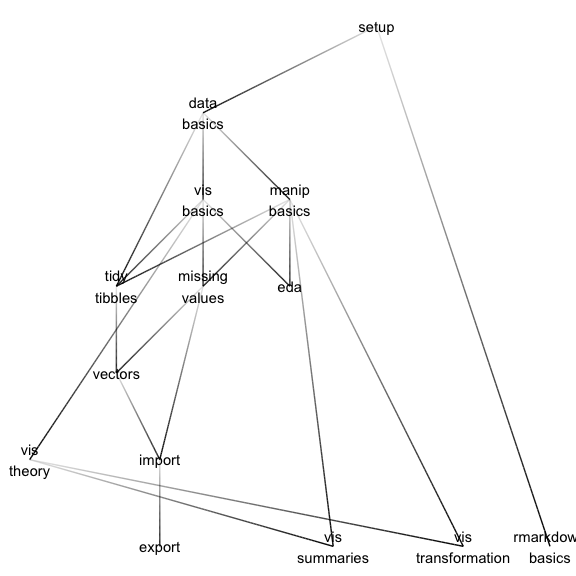
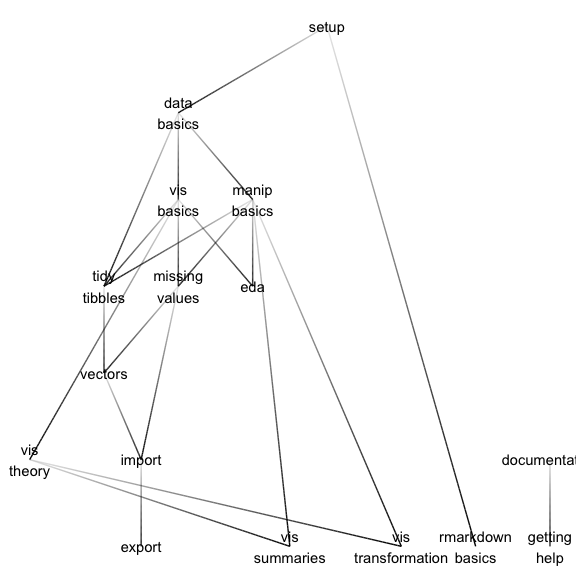
Rebuild site

diff --git a/docs/documentation.md b/docs/documentation.md
@@ -1,0 +1,39 @@
+---
+title: Documentation
+---
+
+<!-- Generated automatically from documentation.yml. Do not edit by hand -->
+
+# Documentation
+
+R comes with rich built-in documentation that you can access by typing
+`?` before the name of the function.  The documentation isn't always
+aimed at newcomers, and may use terminology that you're not familiar with.
+But don't despair! Ignore what you don't understand, and persevere.
+Often you'll find what you need in the examples at the file.
+
+There are three commands in R that you should be familiar with:
+
+* `?function_name` opens the help for `function_name()`.
+
+* `help(package = "package_name")` lists all the documentation available for
+  a package.
+
+* `browseVignettes(package = "package_name")` lists all the "vignettes"
+  (long form documentation) available for a package.
+
+There are also some useful websites that you'll learn about below.
+
+## Readings
+
+  * [tidyverse.org](http://tidyverse.org).
+    This is a work in progress, but lists websites for individual packages
+    within the tidyverse.
+
+  * [rdocumentation.org](https://www.rdocumentation.org).
+    This website contains the documentation for the vast majority of R packages
+    with a searchable index.
+
+
+
+[Give us your feedback on the task](https://goo.gl/forms/Lpq7Cj9dAUIgchJI2)

diff --git a/docs/getting-help.md b/docs/getting-help.md
@@ -26,11 +26,14 @@ devtools::install_github("jennybc/reprex")
 
 ## Readings
 
-  * [What is a reprex?](https://github.com/jennybc/reprex#what-is-a-reprex).
-    Some general advice on writing reprexes
+  * [Getting help and learning more](http://r4ds.had.co.nz/introduction.html#getting-help-and-learning-more) [r4ds-1.6].
+    Start with this basic overview of your options for getting help
 
   * [How to get unstuck](http://stat545.com/help-general.html).
     General tips and tricks for getting unstuck in R
+
+  * [What is a reprex?](https://github.com/jennybc/reprex#what-is-a-reprex).
+    Some general advice on writing reprexes
 
 
 

diff --git a/docs/README.md b/docs/README.md
@@ -15,7 +15,7 @@ you can start performing authentic (if simple) analyses.
 1. [manip-basics](manip-basics.md)
 1. [rmarkdown-basics](rmarkdown-basics.md)
 1. [code-style](code-style.md)
-1. [getting-help](getting-help.md)
+1. [documentation](documentation.md)
 
 ### Supplemental readings
 
@@ -39,6 +39,7 @@ and transformations.
 1. [vis-theory](vis-theory.md)
 1. [vis-summaries](vis-summaries.md)
 1. [vis-transformation](vis-transformation.md)
+1. [getting-help](getting-help.md)
 
 ### Supplemental readings
 
